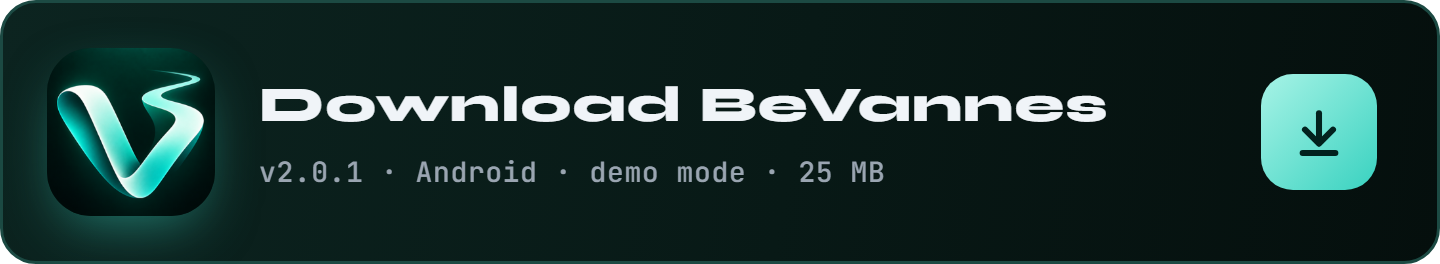
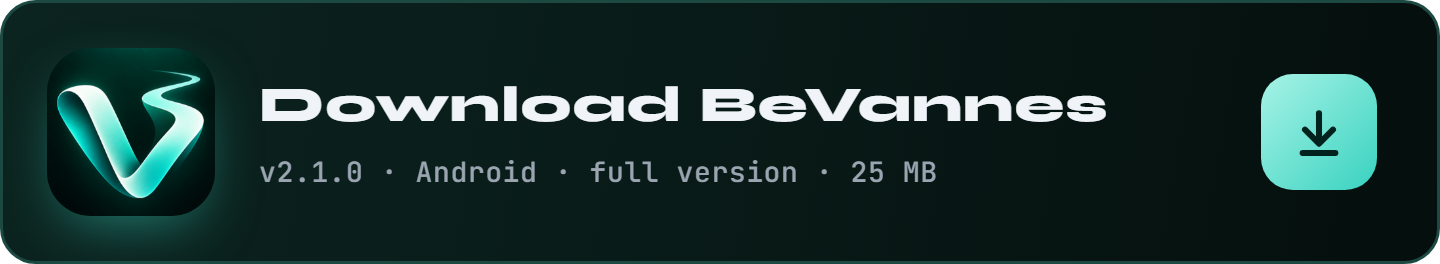
Version 2.1.0 : la vraie application et la démo, côte à côte
- Les photos passent de Cloud Storage à Firestore : Storage n'est plus
  offert sur le forfait gratuit de Firebase (erreur 402). Une photo 3:4
  de 900 × 1200 tient sous 1 Mo, la qualité baisse si besoin. Photo,
  validation et points partent dans une seule transaction, et la règle
  façon BeReal (voir les photos d'un jour seulement après avoir validé
  soi-même) est vérifiée par Firestore, sans règles croisées.
- storage.rules disparaît ; firebase.json ne déploie que Firestore.
- README : deux boutons (BeVannes.apk et BeVannes-demo.apk), les deux
  empreintes, et plus aucune dépendance à Storage dans le texte ni dans
  les schémas.

Vérifié sur le vrai serveur : inscription, validation avec photo à 10 m
de l'Hôtel de Limur, mur du jour, puis suppression complète du compte.

Claude-Session: https://claude.ai/code/session_01WGs6QSVmucucsE4NdDKAXp

Changed region(s): [[0.4062, 0.6061, 0.6562, 0.697], [0.2188, 0.6061, 0.25, 0.697]]

diff --git a/lib/data/firebase_depot.dart b/lib/data/firebase_depot.dart
@@ -2,29 +2,32 @@ import 'dart:io';
 
 import 'package:cloud_firestore/cloud_firestore.dart';
 import 'package:firebase_auth/firebase_auth.dart';
-import 'package:firebase_storage/firebase_storage.dart';
 
 import '../domain/lieu.dart';
 import '../domain/modeles.dart';
 import '../domain/score.dart';
 import 'depot.dart';
 
-/// Le stockage en ligne : Firebase Authentication, Firestore et Storage.
+/// Le stockage en ligne : Firebase Authentication et Firestore.
 ///
 /// Collections :
 ///   joueurs/{uid}             pseudo, points, série, validations, dernier jour
 ///   validations/{jour}_{uid}  une par joueur et par jour, id imposé par les règles
-/// Photos : photos/{jour}/{uid}.jpg, lisibles seulement par ceux qui ont
-/// eux-mêmes validé ce jour-là (storage.rules).
+///   photos/{jour}_{uid}       le JPEG de la validation, lisible seulement par
+///                             ceux qui ont eux-mêmes validé ce jour-là
+///
+/// Les photos vivent dans Firestore et non dans Cloud Storage : Storage
+/// n'est plus offert sur le forfait gratuit de Firebase, et une photo 3:4
+/// de 900 × 1200 tient largement sous la limite de 1 Mo d'un document.
 class FirebaseDepot implements Depot {
   FirebaseDepot();
 
   final _auth = FirebaseAuth.instance;
   final _db = FirebaseFirestore.instance;
-  final _storage = FirebaseStorage.instance;
 
   CollectionReference<Map<String, dynamic>> get _joueurs => _db.collection('joueurs');
   CollectionReference<Map<String, dynamic>> get _validations => _db.collection('validations');
+  CollectionReference<Map<String, dynamic>> get _photos => _db.collection('photos');
 
   @override
   Stream<String?> get session => _auth.authStateChanges().map((u) => u?.uid);
@@ -61,14 +64,7 @@ class FirebaseDepot implements Depot {
     await user.reauthenticateWithCredential(EmailAuthProvider.credential(email: user.email!, password: motDePasse));
     final mes = await _validations.where('uid', isEqualTo: user.uid).get();
     for (final v in mes.docs) {
-      final chemin = v.data()['photo'] as String?;
-      if (chemin != null) {
-        try {
-          await _storage.ref(chemin).delete();
-        } on FirebaseException catch (_) {
-          // Déjà partie : rien à faire.
-        }
-      }
+      await _photos.doc(v.id).delete();
       await v.reference.delete();
     }
     await _joueurs.doc(user.uid).delete();
@@ -113,15 +109,15 @@ class FirebaseDepot implements Depot {
     required double distance,
     required String cheminPhoto,
   }) => _traduire(() async {
-    // 1. La photo d'abord : les règles de Storage autorisent à la remplacer
-    // tant que la validation n'existe pas, un nouvel essai reste possible.
-    final chemin = 'photos/$jour/$uid.jpg';
-    await _storage.ref(chemin).putFile(File(cheminPhoto), SettableMetadata(contentType: 'image/jpeg'));
-
-    // 2. La validation et les points, dans une même transaction : les
-    // règles vérifient l'une par l'autre (getAfter / existsAfter).
+    // La photo, la validation et les points partent dans une même
+    // transaction : les règles vérifient chacun par les autres (getAfter,
+    // existsAfter), et rien n'est écrit si l'un d'eux est refusé.
+    final octets = await File(cheminPhoto).readAsBytes();
+    final id = '${jour}_$uid';
+    final chemin = 'photos/$id';
     final refJoueur = _joueurs.doc(uid);
-    final refValidation = _validations.doc('${jour}_$uid');
+    final refValidation = _validations.doc(id);
+    final refPhoto = _photos.doc(id);
     return _db.runTransaction((tx) async {
       final deja = await tx.get(refValidation);
       if (deja.exists) throw const ErreurDepot('Le lieu du jour est déjà validé.');
@@ -142,6 +138,7 @@ class FirebaseDepot implements Depot {
         'photo': chemin,
         'moment': FieldValue.serverTimestamp(),
       });
+      tx.set(refPhoto, {'uid': uid, 'jour': jour, 'jpeg': Blob(octets)});
       tx.update(refJoueur, {
         'points': j.points + gain,
         'serie': serie,
@@ -166,8 +163,10 @@ class FirebaseDepot implements Depot {
   @override
   Future<List<int>?> photo(String chemin) async {
     try {
-      return await _storage.ref(chemin).getData(8 * 1024 * 1024);
+      final doc = await _db.doc(chemin).get();
+      return (doc.data()?['jpeg'] as Blob?)?.bytes;
     } on FirebaseException {
+      // Refusée tant qu'on n'a pas validé soi-même ce jour-là.
       return null;
     }
   }

diff --git a/docs/tools/anime.js b/docs/tools/anime.js
@@ -501,15 +501,15 @@ function mur() {
   // La légende qui suit l'histoire.
   b += pendant(D, 0.02, 0.3, text(x0, 398, t('Quatre joueurs sont passés : leurs photos restent verrouillées.', 'Four players have been: their photos stay locked.'), { size: 14, color: C.faint }), 0.02);
   b += pendant(D, 0.3, 0.52, text(x0, 398, t('Tu publies la tienne, prise sur place…', 'You post yours, taken on site…'), { size: 14, color: C.text }), 0.02);
-  b += pendant(D, 0.52, 0.93, text(x0, 398, t('…et le mur se dévoile. Storage le vérifie lui-même, pas l’application.', '…and the wall opens up. Storage checks it itself, not the app.'), { size: 14, color: C.title }), 0.02);
+  b += pendant(D, 0.52, 0.93, text(x0, 398, t('…et le mur se dévoile. Firestore le vérifie lui-même, pas l’application.', '…and the wall opens up. Firestore checks it itself, not the app.'), { size: 14, color: C.title }), 0.02);
 
   return svg(
     W,
     H,
     b,
     t(
-      "Animation : quatre photos du jour, de Maëlle, Yann, Erwan et Klervi, sont verrouillées. Une cinquième photo, la tienne, arrive dans la dernière case. Les verrous sautent alors l'un après l'autre et les quatre photos se dévoilent. C'est Storage qui vérifie, pas l'application.",
-      "Animation: four photos of the day, from Maëlle, Yann, Erwan and Klervi, are locked. A fifth photo, yours, drops into the last slot. The locks then come off one after another and the four photos are revealed. Storage does the checking, not the app.",
+      "Animation : quatre photos du jour, de Maëlle, Yann, Erwan et Klervi, sont verrouillées. Une cinquième photo, la tienne, arrive dans la dernière case. Les verrous sautent alors l'un après l'autre et les quatre photos se dévoilent. C'est Firestore qui vérifie, pas l'application.",
+      "Animation: four photos of the day, from Maëlle, Yann, Erwan and Klervi, are locked. A fifth photo, yours, drops into the last slot. The locks then come off one after another and the four photos are revealed. Firestore does the checking, not the app.",
     ),
   );
 }
@@ -850,7 +850,7 @@ function parcours() {
 
   const postes = [
     [t('Téléphone', 'Phone'), [t('photo en 3:4', '3:4 photo'), t('à 20 m du lieu', '20 m from the spot')]],
-    ['Storage', ['photos/20720/', 'toi.jpg']],
+    [t('Photo', 'Photo'), [t('3:4, 180 Ko', '3:4, 180 KB'), 'photos/20720_toi']],
     ['Firestore', [t('validation écrite', 'validation written'), t('joueur à jour', 'player updated')]],
     [t('Règles', 'Rules'), [t('série 3 → 4', 'streak 3 → 4'), '10 + 2 × 3 = 16 ✓']],
     [t('Classement', 'Leaderboard'), [t('+16 points', '+16 points'), t('4e sur 12', '4th of 12')]],
@@ -892,8 +892,8 @@ function parcours() {
     H,
     b,
     t(
-      "Animation : une validation traverse cinq postes. Le téléphone envoie une photo 3:4 prise à 20 mètres du lieu ; Storage la range dans photos/20720/toi.jpg ; Firestore écrit la validation et met à jour le joueur ; les règles recalculent la série, de 3 à 4, et le gain, 10 + 2 × 3 = 16 ; le classement affiche +16 points et la 4e place. Tout passe, ou rien.",
-      'Animation: a validation passes through five stations. The phone sends a 3:4 photo taken 20 metres from the spot; Storage files it under photos/20720/toi.jpg; Firestore writes the validation and updates the player; the rules recompute the streak, from 3 to 4, and the gain, 10 + 2 × 3 = 16; the leaderboard shows +16 points and 4th place. All or nothing.',
+      "Animation : une validation traverse cinq postes. Le téléphone envoie une photo 3:4 prise à 20 mètres du lieu ; la photo part dans photos/20720_toi ; Firestore écrit la validation et met à jour le joueur ; les règles recalculent la série, de 3 à 4, et le gain, 10 + 2 × 3 = 16 ; le classement affiche +16 points et la 4e place. Tout passe, ou rien.",
+      'Animation: a validation passes through five stations. The phone sends a 3:4 photo taken 20 metres from the spot; the photo goes to photos/20720_toi; Firestore writes the validation and updates the player; the rules recompute the streak, from 3 to 4, and the gain, 10 + 2 × 3 = 16; the leaderboard shows +16 points and 4th place. All or nothing.',
     ),
   );
 }

diff --git a/lib/data/cadrage.dart b/lib/data/cadrage.dart
@@ -9,10 +9,13 @@ import 'package:path_provider/path_provider.dart';
 /// tout le monde voie le même cadre, du mur du jour à l'historique.
 const formatPhoto = 3 / 4;
 
-const _largeur = 1200;
-const _hauteur = 1600;
+// 900 × 1200 : net sur un téléphone, et assez léger pour tenir dans un
+// document Firestore (moins de 1 Mo, en pratique 100 à 250 Ko).
+const _largeur = 900;
+const _hauteur = 1200;
+const _poidsMax = 700 * 1024;
 
-/// Recadre la photo en 3:4 et la réduit à 1200 × 1600. Renvoie le chemin
+/// Recadre la photo en 3:4 et la réduit à 900 × 1200. Renvoie le chemin
 /// du nouveau fichier JPEG.
 Future<String> recadrerPhoto(String chemin) async {
   final octets = await File(chemin).readAsBytes();
@@ -39,5 +42,11 @@ Uint8List _recadrer(Uint8List octets) {
   }
   final cadre = img.copyCrop(source, x: (source.width - l) ~/ 2, y: (source.height - h) ~/ 2, width: l, height: h);
   final reduite = l > _largeur ? img.copyResize(cadre, width: _largeur, height: _hauteur) : cadre;
-  return img.encodeJpg(reduite, quality: 84);
+  // La qualité baisse tant que la photo pèse trop, ce qui n'arrive qu'avec
+  // des scènes très détaillées.
+  for (var q = 80; q > 40; q -= 10) {
+    final jpeg = img.encodeJpg(reduite, quality: q);
+    if (jpeg.length <= _poidsMax) return jpeg;
+  }
+  return img.encodeJpg(reduite, quality: 40);
 }

diff --git a/README.md b/README.md
@@ -16,7 +16,10 @@ Chaque jour, l'application désigne un lieu de Vannes, le même pour tout le mon
 
 L'idée de départ : on passe devant les mêmes rues tous les jours sans jamais s'arrêter. Une contrainte ludique suffit parfois à changer ça.
 
-<p align="center"><a href="https://github.com/Cybertrist/BeVannes/releases/latest/download/BeVannes.apk"><img src="docs/telecharger.png" alt="Télécharger BeVannes, application Android, dernière version, mode démo" width="440"></a></p>
+<p align="center">
+  <a href="https://github.com/Cybertrist/BeVannes/releases/latest/download/BeVannes.apk"><img src="docs/telecharger.png" alt="Télécharger BeVannes, la version complète, application Android" width="400"></a>
+  <a href="https://github.com/Cybertrist/BeVannes/releases/latest/download/BeVannes-demo.apk"><img src="docs/telecharger-demo.png" alt="Essayer la démo de BeVannes, sans compte, application Android" width="400"></a>
+</p>
 
 <img src="docs/schemas/vitrine.svg" alt="Animation : un téléphone fait défiler six vrais écrans de BeVannes : la connexion, le lieu du jour avec sa carte, l’arrivée sur place avec la jauge pleine, la validation avec sa coche et ses confettis, le classement avec son podium, et le profil." width="100%">
 
@@ -34,7 +37,7 @@ Une partie tient en quatre temps.
 
 **Le mur du jour.** Les photos des autres restent verrouillées tant qu'on n'a pas publié la sienne.
 
-<img src="docs/schemas/mur.svg" alt="Animation : quatre photos du jour, de Maëlle, Yann, Erwan et Klervi, sont verrouillées. Une cinquième photo, la tienne, arrive dans la dernière case. Les verrous sautent alors l'un après l'autre et les quatre photos se dévoilent. C'est Storage qui vérifie, pas l'application." width="100%">
+<img src="docs/schemas/mur.svg" alt="Animation : quatre photos du jour, de Maëlle, Yann, Erwan et Klervi, sont verrouillées. Une cinquième photo, la tienne, arrive dans la dernière case. Les verrous sautent alors l'un après l'autre et les quatre photos se dévoilent. C'est Firestore qui vérifie, pas l'application." width="100%">
 
 **Le rappel.** Une notification par jour, à une heure qui change tous les jours mais tombe au même moment pour tout le monde.
 
@@ -43,7 +46,7 @@ Une partie tient en quatre temps.
 
 <img src="docs/sections/s02.png" alt="02 Sous le capot" width="100%">
 
-Une application Flutter pour Android, avec Firebase derrière : Authentication pour les comptes, Firestore pour les joueurs et les validations, Storage pour les photos. La carte vient d'OpenStreetMap, sans clé d'API.
+Une application Flutter pour Android, avec Firebase derrière : Authentication pour les comptes, Firestore pour les joueurs, les validations et les photos. Les photos y tiennent sans peine, en 3:4 de 900 × 1200 pixels, et Cloud Storage n'est plus offert sur le forfait gratuit de Firebase : tout le jeu tourne sans rien payer. La carte vient d'OpenStreetMap, sans clé d'API.
 
 Trois pièces tiennent le jeu.
 
@@ -51,7 +54,7 @@ Trois pièces tiennent le jeu.
 
 Une validation traverse cinq étapes, et tout passe d'un bloc ou rien ne passe.
 
-<img src="docs/schemas/parcours.svg" alt="Animation : une validation traverse cinq postes. Le téléphone envoie une photo 3:4 prise à 20 mètres du lieu ; Storage la range dans photos/20720/toi.jpg ; Firestore écrit la validation et met à jour le joueur ; les règles recalculent la série, de 3 à 4, et le gain, 10 + 2 × 3 = 16 ; le classement affiche +16 points et la 4e place. Tout passe, ou rien." width="100%">
+<img src="docs/schemas/parcours.svg" alt="Animation : une validation traverse cinq postes. Le téléphone envoie une photo 3:4 prise à 20 mètres du lieu ; la photo part dans photos/20720_toi ; Firestore écrit la validation et met à jour le joueur ; les règles recalculent la série, de 3 à 4, et le gain, 10 + 2 × 3 = 16 ; le classement affiche +16 points et la 4e place. Tout passe, ou rien." width="100%">
 
 Le téléphone ne fait que proposer ses points : Firestore refait le calcul et refuse ce qui ne tombe pas juste.
 
@@ -71,9 +74,25 @@ Côté interface, chaque animation a un rôle : un radar marque le lieu sur la c
 
 <img src="docs/sections/s03.png" alt="03 Installation" width="100%">
 
-**Pour essayer**, le bouton en haut de page installe la version de démonstration : une petite communauté fictive, tout reste sur le téléphone, et un interrupteur place le joueur sur le lieu du jour pour tester la validation sans traverser la ville.
+Deux applications, qui s'installent côte à côte sans se gêner.
 
-**Pour construire**, il faut Flutter.
+- **BeVannes**, la version complète : le vrai jeu, relié au serveur. Un compte, le classement, les photos et les séries partagés avec les autres joueurs.
+- **BeVannes démo** : une petite communauté fictive, tout reste sur le téléphone, et un interrupteur « Me téléporter sur le lieu » pour essayer la validation sans traverser Vannes.
+
+Les deux sont signées par la même clé ; une mise à jour s'installe par-dessus la précédente sans rien perdre.
+
+```
+# SHA-256 de BeVannes.apk, version 2.1.0
[1 lines of base64/hex data omitted]
+
+# SHA-256 de BeVannes-demo.apk, version 2.1.0
[1 lines of base64/hex data omitted]
+
+# SHA-256 du certificat de signature, CN=BeVannes, O=Cybertrist
[1 lines of base64/hex data omitted]
+```
+
+**Pour construire**, il faut Flutter. La démo se construit avec `--dart-define=DEMO=true`, qui lui donne aussi son propre identifiant, `fr.bevannes.bevannes.demo`.
 
 ```bash
 git clone https://github.com/Cybertrist/BeVannes.git
@@ -84,7 +103,7 @@ flutter run --dart-define=DEMO=true
 
 **Pour jouer pour de vrai**, il faut un projet Firebase.
 
-1. Sur la [console Firebase](https://console.firebase.google.com/), activer **Authentication** (e-mail et mot de passe), **Firestore** et **Storage**, et déclarer une application Android `fr.bevannes.bevannes`.
+1. Sur la [console Firebase](https://console.firebase.google.com/), activer **Authentication** (e-mail et mot de passe) et **Firestore**, et déclarer une application Android `fr.bevannes.bevannes`.
 2. Télécharger son `google-services.json`, puis écrire la configuration de compilation, ignorée par git :
 
 ```bash
@@ -94,7 +113,7 @@ bash tool/firebase_env.sh chemin/vers/google-services.json
 3. Déployer les règles et les index du dépôt :
 
 ```bash
-firebase deploy --only firestore,storage
+firebase deploy --only firestore
 ```
 
 4. Construire :
@@ -103,7 +122,7 @@ firebase deploy --only firestore,storage
 flutter build apk --release --dart-define-from-file=firebase.env.json
 ```
 
-> Les clés d'API Firebase côté client ne sont pas des secrets, elles se lisent dans tout APK. Ce qui protège les données, ce sont les **règles** de `firestore.rules` et `storage.rules` : un joueur n'écrit que ses propres points, recalculés par le serveur, et ne voit les photos d'un jour qu'après avoir validé ce jour-là.
+> Les clés d'API Firebase côté client ne sont pas des secrets, elles se lisent dans tout APK. Ce qui protège les données, ce sont les **règles** de `firestore.rules` : un joueur n'écrit que ses propres points, recalculés par le serveur, et ne voit les photos d'un jour qu'après avoir validé ce jour-là.
 
 <img src="docs/sections/s04.png" alt="04 Ajouter des lieux" width="100%">
 

diff --git a/README.en.md b/README.en.md
@@ -16,7 +16,10 @@ Every day, the app picks a place in Vannes, the same one for everyone. To score,
 
 The starting idea: we walk past the same streets every day without ever stopping. A playful constraint is sometimes enough to change that.
 
-<p align="center"><a href="https://github.com/Cybertrist/BeVannes/releases/latest/download/BeVannes.apk"><img src="docs/en/telecharger.png" alt="Download BeVannes, Android app, latest version, demo mode" width="440"></a></p>
+<p align="center">
+  <a href="https://github.com/Cybertrist/BeVannes/releases/latest/download/BeVannes.apk"><img src="docs/en/telecharger.png" alt="Download BeVannes, the full version, Android app" width="400"></a>
+  <a href="https://github.com/Cybertrist/BeVannes/releases/latest/download/BeVannes-demo.apk"><img src="docs/en/telecharger-demo.png" alt="Try the BeVannes demo, no account, Android app" width="400"></a>
+</p>
 
 <img src="docs/en/schemas/vitrine.svg" alt="Animation: a phone scrolls through six real BeVannes screens: sign in, the spot of the day with its map, arriving on site with the gauge full, the validation with its tick and confetti, the leaderboard with its podium, and the profile." width="100%">
 
@@ -34,7 +37,7 @@ A game plays out in four beats.
 
 **Today's wall.** Other players' photos stay locked until you have posted yours.
 
-<img src="docs/en/schemas/mur.svg" alt="Animation: four photos of the day, from Maëlle, Yann, Erwan and Klervi, are locked. A fifth photo, yours, drops into the last slot. The locks then come off one after another and the four photos are revealed. Storage does the checking, not the app." width="100%">
+<img src="docs/en/schemas/mur.svg" alt="Animation: four photos of the day, from Maëlle, Yann, Erwan and Klervi, are locked. A fifth photo, yours, drops into the last slot. The locks then come off one after another and the four photos are revealed. Firestore does the checking, not the app." width="100%">
 
 **The reminder.** One notification a day, at a time that changes every day but lands at the same moment for everyone.
 
@@ -44,7 +47,7 @@ A game plays out in four beats.
 
 <img src="docs/en/sections/s02.png" alt="02 Under the hood" width="100%">
 
-A Flutter app for Android, with Firebase behind it: Authentication for accounts, Firestore for players and validations, Storage for photos. The map comes from OpenStreetMap, no API key needed.
+A Flutter app for Android, with Firebase behind it: Authentication for accounts, Firestore for players, validations and photos. The photos fit easily, as 3:4 at 900 × 1200 pixels, and Cloud Storage is no longer offered on Firebase's free plan: the whole game runs without paying anything. The map comes from OpenStreetMap, no API key needed.
 
 Three pieces hold the game together.
 
@@ -52,7 +55,7 @@ Three pieces hold the game together.
 
 A validation goes through five steps, and it all goes through in one block or not at all.
 
-<img src="docs/en/schemas/parcours.svg" alt="Animation: a validation passes through five stations. The phone sends a 3:4 photo taken 20 metres from the spot; Storage files it under photos/20720/toi.jpg; Firestore writes the validation and updates the player; the rules recompute the streak, from 3 to 4, and the gain, 10 + 2 × 3 = 16; the leaderboard shows +16 points and 4th place. All or nothing." width="100%">
+<img src="docs/en/schemas/parcours.svg" alt="Animation: a validation passes through five stations. The phone sends a 3:4 photo taken 20 metres from the spot; the photo goes to photos/20720_toi; Firestore writes the validation and updates the player; the rules recompute the streak, from 3 to 4, and the gain, 10 + 2 × 3 = 16; the leaderboard shows +16 points and 4th place. All or nothing." width="100%">
 
 The phone only proposes its points: Firestore redoes the maths and refuses anything that does not add up.
 
@@ -72,9 +75,25 @@ On the interface side, every animation has a job: a radar marks the spot on the 
 
 <img src="docs/en/sections/s03.png" alt="03 Installation" width="100%">
 
-**To try it**, the button at the top installs the demo build: a small made-up community, everything stays on the phone, and a switch puts the player on today's spot to test validation without crossing town.
+Two apps, which install side by side without getting in each other's way.
 
-**To build it**, you need Flutter.
+- **BeVannes**, the full version: the real game, connected to the server. One account, with the leaderboard, photos and streaks shared with the other players.
+- **BeVannes démo**: a small made-up community, everything stays on the phone, and a "Me téléporter sur le lieu" switch to try validation without crossing Vannes.
+
+Both are signed with the same key; an update installs over the previous one without losing anything.
+
+```
+# SHA-256 of BeVannes.apk, version 2.1.0
[1 lines of base64/hex data omitted]
+
+# SHA-256 of BeVannes-demo.apk, version 2.1.0
[1 lines of base64/hex data omitted]
+
+# SHA-256 of the signing certificate, CN=BeVannes, O=Cybertrist
[1 lines of base64/hex data omitted]
+```
+
+**To build it**, you need Flutter. The demo is built with `--dart-define=DEMO=true`, which also gives it its own identifier, `fr.bevannes.bevannes.demo`.
 
 ```bash
 git clone https://github.com/Cybertrist/BeVannes.git
@@ -85,7 +104,7 @@ flutter run --dart-define=DEMO=true
 
 **To play for real**, you need a Firebase project.
 
-1. On the [Firebase console](https://console.firebase.google.com/), enable **Authentication** (email and password), **Firestore** and **Storage**, and register an Android app `fr.bevannes.bevannes`.
+1. On the [Firebase console](https://console.firebase.google.com/), enable **Authentication** (email and password) and **Firestore**, and register an Android app `fr.bevannes.bevannes`.
 2. Download its `google-services.json`, then write the build configuration, which git ignores:
 
 ```bash
@@ -95,7 +114,7 @@ bash tool/firebase_env.sh path/to/google-services.json
 3. Deploy the rules and indexes from the repository:
 
 ```bash
-firebase deploy --only firestore,storage
+firebase deploy --only firestore
 ```
 
 4. Build:
@@ -104,7 +123,7 @@ firebase deploy --only firestore,storage
 flutter build apk --release --dart-define-from-file=firebase.env.json
 ```
 
-> Client-side Firebase API keys are not secrets, they can be read from any APK. What protects the data are the **rules** in `firestore.rules` and `storage.rules`: a player only writes their own points, recomputed by the server, and only sees a day's photos after validating that day themselves.
+> Client-side Firebase API keys are not secrets, they can be read from any APK. What protects the data are the **rules** in `firestore.rules`: a player only writes their own points, recomputed by the server, and only sees a day's photos after validating that day themselves.
 
 <img src="docs/en/sections/s04.png" alt="04 Adding places" width="100%">
 
